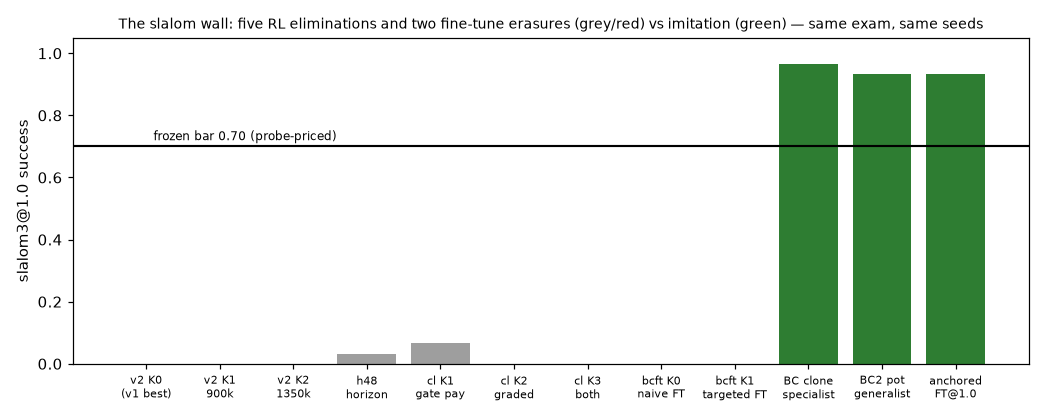
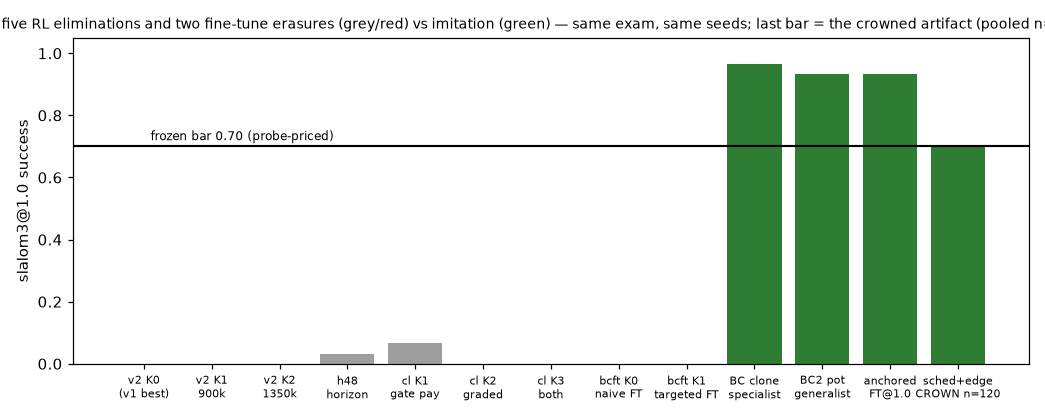
figures: slalom wall gains the crowned eleventh sitting

diff --git a/eval/eval_results_figures.py b/eval/eval_results_figures.py
@@ -95,6 +95,7 @@ SLALOM_SITTINGS = (
     ("BC clone\nspecialist", 0.967, "BC"),
     ("BC2 pot\ngeneralist", 0.933, "BC"),
     ("anchored\nFT@1.0", 0.933, "BC"),
+    ("sched+edge\nCROWN n=120", 0.700, "BC"),
 )
 
 
@@ -116,7 +117,8 @@ def slalom_wall_figure():
     ax.set_ylabel("slalom3@1.0 success")
     ax.set_title(
         "The slalom wall: five RL eliminations and two fine-tune erasures "
-        "(grey/red) vs imitation (green) — same exam, same seeds",
+        "(grey/red) vs imitation (green) — same exam, same seeds; last bar "
+        "= the crowned artifact (pooled n=120, ALL guards green)",
         fontsize=9,
     )
     fig.tight_layout()
@@ -354,7 +356,7 @@ def main() -> None:
             for p in [p1] + ps:
                 assert os.path.getsize(p) > 10_000, f"figure too small: {p}"
         # curated series must stay inside [0, 1] and cite real sittings
-        assert len(SLALOM_SITTINGS) == 12 and all(
+        assert len(SLALOM_SITTINGS) == 13 and all(
             0 <= s[1] <= 1 for s in SLALOM_SITTINGS
         )
         assert len(FT_DOSES) == len(FT_CHAIN) == len(FT_GAP) == len(FT_MGAP)